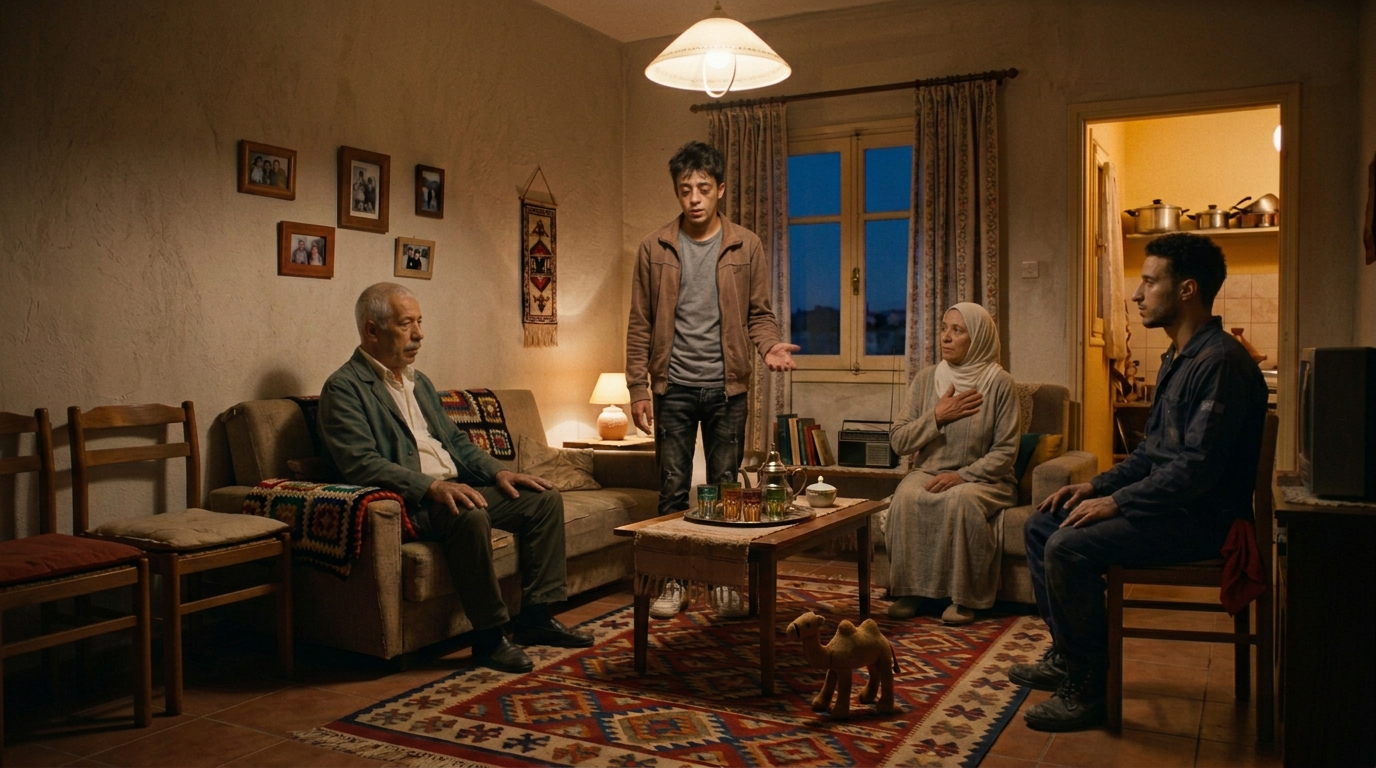
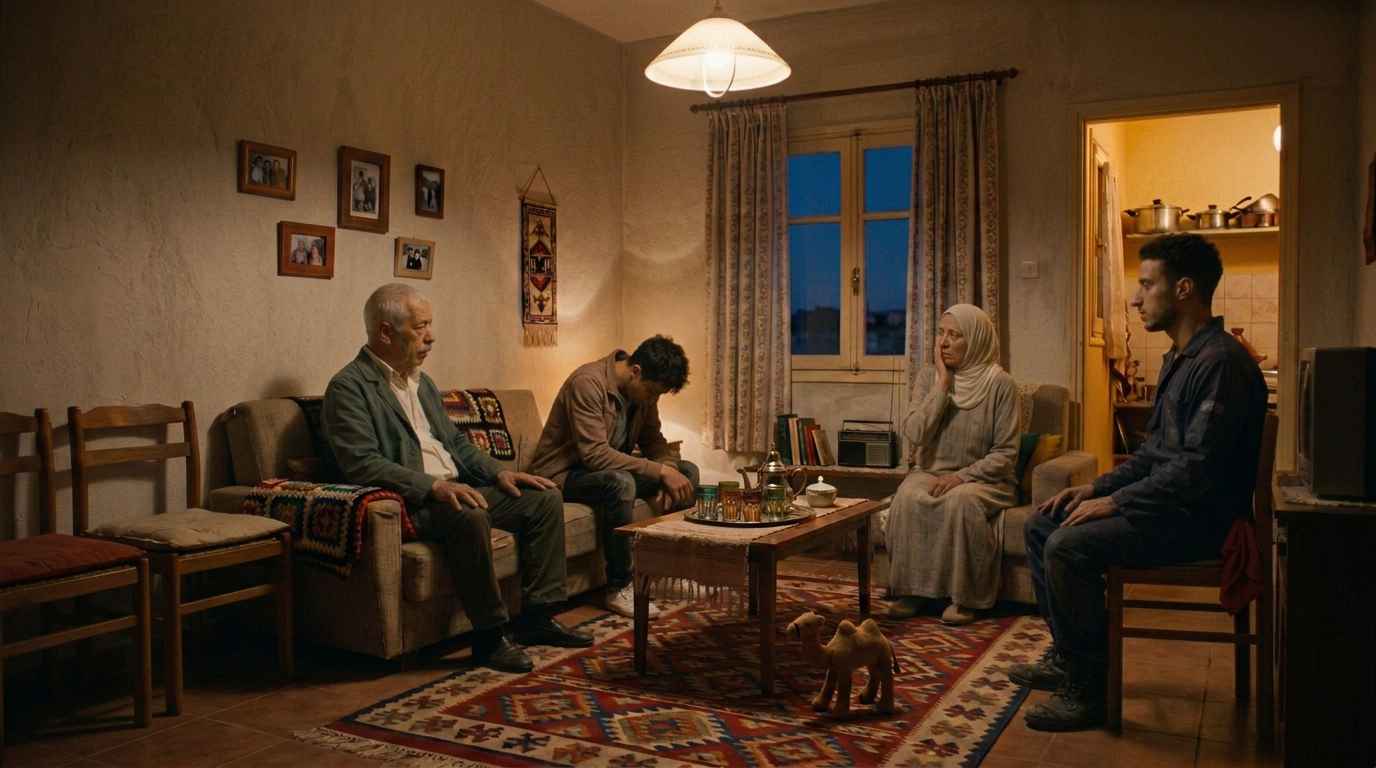
SC18 V3 fix per client memo: Yassine SEATED beside Hadj (matching SC17 ending) + SC19/SC20 complete (seated continuity) + SC21_A (standing money handover) + client's new SC04-SC27 prompts integrated with continuity adjustments

diff --git a/ATHAR_AL_ZAYT_FINAL_FILM/04_FLOW_VIDEO_PROMPTS/SC18_FLOW_PROMPT.md b/ATHAR_AL_ZAYT_FINAL_FILM/04_FLOW_VIDEO_PROMPTS/SC18_FLOW_PROMPT.md
@@ -1,43 +1,59 @@
-# SCENE 18 — الظروف
-**فيلم «آثار الزيت» • 10 ثوانٍ بالضبط • 16:9 أفقي • النسخة 2 — دارجة 100% + كاميرا واقعية + خريطة التثبيت**
+# SCENE 18 — ياسين يشرح ظروفه دون تبرير السرقة
+**فيلم «آثار الزيت» | Google Flow | 10 ثوانٍ بالضبط | أفقي 16:9 | نسخة 3 — تصحيح الاستمرارية: ياسين جالس بجوار الحاج**
 
-## 🎬 لقطات المشهد — بنفس خريطة التثبيت (الكاميرا تتغير، المواضع لا)
-| # | الملف | الدور |
-|---|---|---|
-| 1 | `SC18_IMAGE_A_WIDE.png` | **إطار البداية** — واسعة بنفس مواضع SC16/17: ياسين يشرح بيده المفتوحة، الحاج يستمع بجدية، الأم يدها على قلبها |
-| 2 | `SC18_IMAGE_B_ACTION.png` | الحدث: ياسين يشرح الظروف بألم — بلا تبرير |
-| 3 | `SC18_IMAGE_C_REACTION.png` | التعليق: كلوز الحاج جالساً يستمع بوقار — تمهيداً لكلمته في SC20 |
+## ملخص المشهد (محدث حسب مذكرة العميل)
+نفس غرفة الجلوس والمواضع والإضاءة. **ياسين الآن جالس على الكنبة بجوار الحاج (على يساره) — متطابق مع نهاية SC17**، منكّس الرأس بانكسار. الحاج مائل قليلاً نحوه يستمع بوقار أبوي. الأم في طرفها الأيمن وبيدها على خدها. أمين على الكرسي إلى اليمين. باب المطبخ فارغ تماماً.
 
----
+## تقسيم الحركة والحوار (10 ثوانٍ)
+- 0–3 ث: لقطة واسعة ثابتة؛ ياسين جالس بجوار الحاج يرفع نظره قليلاً ويشرح بيد مفتوحة، والآخرون يستمعون.
+- 3–8 ث: لقطة متوسطة هادئة بمستوى الجلوس فوق كتف الحاج؛ ياسين ينظر إلى الحاج بعينين دامعتين ويقول: «دوّرت على خدمة وما لقيتش… بابا مات، وكنت حاب نعاون أمّي وختي الصغيرة.»
+- 8–10 ث: قطع ثابت إلى كلوز وجه الحاج — عيناه ناظرتان نازلاً نحو ياسين الجالس بجانبه؛ صوت ياسين خارج الكادر يقول: «بصح عارف بلي غلطت.»
 
-## 📋 GOOGLE FLOW VIDEO PROMPT — COPY READY (V2)
+## GOOGLE FLOW VIDEO PROMPT — COPY READY (V3)
 
+```text
+Create a photorealistic live-action scene from the approved reference images for the Algerian short film "Athar Al-Zayt". Duration exactly 10 seconds. Horizontal landscape 16:9 only, cinematic widescreen composition.
+
+CONTINUITY IS MANDATORY:
+Use the attached approved reference images for the exact identity of every character and location. Do not redesign faces. Hadj is about 60, wearing the same dark-green casual jacket over a white shirt. Amine is a young mechanic wearing the same dark navy-blue coveralls, with the red cloth visible from his rear pocket. Yassine is a 19-year-old Algerian young man, not a child; he wears his faded brown jacket over a gray T-shirt and dark trousers. His mother wears the same modest beige-gray home dress and light headscarf.
+
+LOCATION / PROPS:
+نفس غرفة الجلوس والمواضع والإضاءة مع تصحيح الاستمرارية: ياسين جالس على الكنبة بجوار الحاج (على يساره) — لا يقف في هذا المشهد أبداً — منكّس الرأس بانكسار؛ الحاج جالس على يسار الكنبة مائلًا قليلًا نحوه يستمع بوقار أبوي؛ الأم في طرف الكنبة الأيمن وبيدها على خدها؛ أمين على الكرسي إلى اليمين. باب المطبخ في الخلف يسارًا فارغ تمامًا. Keep the established room geometry, furniture, props, light direction exactly consistent with the reference images.
+
+ACTION AND TIMING:
+- 0–3 ث: لقطة واسعة ثابتة؛ ياسين جالس بجوار الحاج يرفع نظره قليلًا ويشرح بيد مفتوحة، والآخرون يستمعون.
+- 3–8 ث: لقطة متوسطة هادئة بمستوى الجلوس فوق كتف الحاج؛ ياسين ينظر إلى الحاج بعينين دامعتين ويقول: «دوّرت على خدمة وما لقيتش… بابا مات، وكنت حاب نعاون أمّي وختي الصغيرة.»
+- 8–10 ث: قطع ثابت إلى كلوز وجه الحاج وهو يستمع، عيناه ناظرتان نازلاً نحو ياسين الجالس بجانبه؛ صوت ياسين خارج الكادر يقول: «بصح عارف بلي غلطت.»
+
+DIALOGUE — natural Algerian Darja only, spoken by native Algerian voices, never Modern Standard Arabic:
+ياسين: «دوّرت على خدمة وما لقيتش… بابا مات، وكنت حاب نعاون أمّي وختي الصغيرة. بصح عارف بلي غلطت.»
+Only the named speaker speaks during their line. Lip-sync only the visible speaking character. For off-screen dialogue, visible characters must keep their lips still. Keep speech short enough to fit naturally inside the indicated timing; do not overlap lines or invent extra dialogue.
+
+CAMERA:
+Use only the simple camera movement explicitly described in the timed beats. Prefer locked-off shots or one slow motivated move. No orbiting, whip pans, fast zooms, speed ramps, sudden reframing or impossible camera movement. If the beats call for a hard cut, make one clean hard cut only. Keep the geography understandable.
+
+SOUND:
+Use realistic location ambience and the specific small sound effects implied by the action. Keep dialogue clear and in front of the ambience. No loud music, no cartoon effects, no added narration, no extra dialogue. Avoid music during emotional confession scenes.
+
+ENDING FRAME / MATCH CUT:
+آخر إطار: الحاج ينظر إلى ياسين الجالس بجانبه بتفكير، لا غضب ولا ابتسامة مبكرة؛ SC19 يبدأ برد فعل الأم.
+End on a stable, readable frame that can be edited directly into the next numbered clip. Do not fade out.
+
+FORMAT: Horizontal landscape 16:9 only. Never vertical 9:16, never portrait, never square. Keep faces, hands and important props inside the frame.
 ```
-Photorealistic live-action Algerian short film. 10 seconds exactly — Horizontal landscape 16:9. Real-cinema discipline: static wide, one gentle move to medium, then a locked-off close-up — the camera angle changes but positions never change. All dialogue in natural Algerian Darja — never Modern Standard Arabic.
 
-Animate the scene from the attached images, keeping the characters, the living room and the FIXED POSITIONS EXACTLY as shown: the thin 19-year-old young man (faded brown zip-up jacket over gray t-shirt) STANDS at his fixed spot in the center just behind the low tea table, facing the sofa; the older man around 60 (dark-green casual jacket over white shirt) is SEATED on the LEFT side of the sofa; the mother (beige-gray home dress, white-beige headscarf) is SEATED on the RIGHT end of the sofa; the young mechanic (navy-blue coverall) is SEATED on his chair to the right. Living room layout FIXED: sofa backdrop, low table with tea set middle, kitchen doorway background LEFT. Warm evening lamp light.
+## NEGATIVE PROMPT — COPY READY
 
-0–3s — Locked-off static wide: same fixed positions; the young man explains himself with painful honesty, one hand half-open in a helpless gesture, dried tear tracks on his face; the older man listens gravely, hands folded on his knee; the mother listens with heartbreak, one hand over her heart.
-
-3–8s — One gentle move to a medium shot of the young man: he explains, lip-synced, ashamed but no longer hiding, Algerian Darja: «دوّرت على خدمة… ما لقيتش. باباي مات وما بقاتلنا حتى شي. شفت أمّي وختي الصغيرة… ما لقيتش طريق آخر.»
-
-8–10s — Locked-off static close-up of the seated older man: his grave patient face listening, eyes thoughtful; the young man's voice continues off-screen (no lip movement on screen), Algerian Darja: «غلطت يا الحاج.» Final frame: the older man's eyes lower thoughtfully.
-
-CAMERA: static wide → one gentle move to medium → static close-up on the older man. Positions never change.
-SOUND: quiet room, the young man's slow ashamed voice, the faint wall clock. No music.
-FORMAT: Horizontal landscape 16:9 only, cinematic widescreen framing. Never vertical 9:16, never portrait, never square. Do not crop the image into a vertical frame.
+```text
+No vertical 9:16, no portrait, no square. Yassine stays SEATED on the sofa beside Hadj for the entire scene — he does NOT stand up. No character identity drift, no face changes, no age changes, no clothing changes. Yassine is 19, not a child. No extra people, no duplicate bodies, no blurred figures in the kitchen doorway, no extra fingers, no fused hands, no distorted faces, no changing room layout. No subtitles, no captions, no watermark, no logos, no random readable text. No Modern Standard Arabic, no Egyptian or Gulf accent. No overlapping dialogue, no lip movement by a silent character. No exaggerated crying, no slapstick, no violence. Do not make the customer the thief. Do not end on a cliffhanger.
 ```
 
----
+## 🔗 الربط بالمشهد التالي
+آخر إطار: الحاج ينظر إلى ياسين الجالس بجانبه بتفكير؛ SC19 يبدأ برد فعل الأم (نفس المواضع — ياسين لا يزال جالساً).
 
-## 🚫 NEGATIVE PROMPT
-
-```
-No vertical 9:16, no portrait, no square. No fast camera moves. Do NOT move anyone from their fixed position: the young man stays standing in the center, the older man stays seated on the LEFT of the sofa, the mother stays seated on the RIGHT end, the mechanic stays on his chair — no seat swapping, no wandering, no teleporting. No excuses justifying the theft — he admits the mistake. No extra people. No distorted hands, no extra fingers. No Modern Standard Arabic, no foreign accent, no subtitles, no watermark, no logos, no readable text anywhere.
-```
-
-## 🔗 آخر إطار — للربط بالمشهد التالي (SC19)
-عينا الحاج تنخفضان متأملتين → SC19: الأم تمسح دموعها (نفس الغرفة والمواضع).
-
-## ✅ فحص سريع
-16:9 ✓ • **نفس مواضع SC16/17 حرفياً** ✓ • شرح الظروف بلا تبرير ✓ • كلوز الحاج يمهد لـ SC20 ✓ • دارجة: «دوّرت على خدمة… ما لقيتش. باباي مات وما بقاتلنا حتى شي. شفت أمّي وختي الصغيرة… ما لقيتش طريق آخر. غلطت يا الحاج» ✓ • 10 ثوانٍ ✓
+## فحص سريع قبل اعتماد الفيديو
+- [ ] المدة 10 ثوانٍ بالضبط.
+- [ ] ياسين جالس بجوار الحاج في كل اللقطات (لا يقف).
+- [ ] عينا الحاج في كلوز C ناظرتان نازلاً نحو ياسين الجالس.
+- [ ] باب المطبخ فارغ (لا أشخاص زائفين).
+- [ ] الحوار دارجة جزائرية ومزامنة الشفاه صحيحة.

diff --git a/ATHAR_AL_ZAYT_FINAL_FILM/04_FLOW_VIDEO_PROMPTS/SC21_FLOW_PROMPT.md b/ATHAR_AL_ZAYT_FINAL_FILM/04_FLOW_VIDEO_PROMPTS/SC21_FLOW_PROMPT.md
@@ -1,0 +1,60 @@
+# SCENE 21 — إرجاع المال
+**فيلم «آثار الزيت» | Google Flow | 10 ثوانٍ بالضبط | أفقي 16:9 | نسخة مراجعة الاستمرارية**
+
+## ملخص المشهد
+نفس غرفة الجلوس. ياسين ينهض بهدوء من الكنبة ويقف في الوسط لتسليم المال (حركة مبررة ظاهرة في أول المشهد)، المال كان في الجيب الداخلي الأيسر لسترته البنية. الحاج جالس يسار الكنبة.
+
+## تقسيم الحركة والحوار (10 ثوانٍ)
+- 0–3 ث: ياسين ينهض بهدوء من الكنبة بجوار الحاج، يقف في وسط الغرفة خلف الطاولة، ثم يُدخل يده اليمنى ببطء إلى الجيب الداخلي الأيسر ويخرج رزمة المال.
+- 3–7 ث: يمد المال بكلتا يديه إلى الحاج؛ الحاج يمد يديه ويستلمه بوضوح. يجب أن تكون عملية التسليم مرئية كاملة.
+- 7–10 ث: الحاج ينظر إلى المال ثم إلى ياسين ويقول: «مليح بلي رجّعتو واعترفت.»
+
+## GOOGLE FLOW VIDEO PROMPT — COPY READY
+```text
+Create a photorealistic live-action scene from the approved reference images for the Algerian short film “Athar Al-Zayt”. Duration exactly 10 seconds. Horizontal landscape 16:9 only, cinematic widescreen composition.
+
+CONTINUITY IS MANDATORY:
+Use the attached approved reference images for the exact identity of every character and location. Do not redesign faces. Hadj is about 60, wearing the same dark-green casual jacket over a white shirt. Amine is a young mechanic wearing the same dark navy-blue coveralls, with the red cloth visible from his rear pocket. Yassine is a 19-year-old Algerian young man, not a child; his pre-job outfit is a faded brown jacket over a gray T-shirt and dark trousers. His mother wears the same modest beige-gray home dress and light headscarf. The little sister is about two years old. For the later workshop scenes, Yassine wears the approved simple dark navy work outfit. Keep all approved face references exact.
+
+LOCATION / PROPS:
+نفس غرفة الجلوس. ياسين ينهض بهدوء من الكنبة ويقف في الوسط لتسليم المال (حركة مبررة ظاهرة في أول المشهد)، المال كان في الجيب الداخلي الأيسر لسترته البنية. الحاج جالس يسار الكنبة.
+Keep the established room geometry, door positions, furniture, props, light direction and screen geography exactly consistent with the reference images. The money box is wooden with a top lid and handle. In the workshop office it stays on the LEFT side of the wooden desk; the CCTV monitor stays mounted on the wall to the RIGHT of the desk. Do not move or duplicate these objects.
+
+ACTION AND TIMING:
+- 0–3 ث: ياسين ينهض بهدوء من الكنبة بجوار الحاج، يقف في وسط الغرفة خلف الطاولة، ثم يُدخل يده اليمنى ببطء إلى الجيب الداخلي الأيسر ويخرج رزمة المال.
+- 3–7 ث: يمد المال بكلتا يديه إلى الحاج؛ الحاج يمد يديه ويستلمه بوضوح. يجب أن تكون عملية التسليم مرئية كاملة.
+- 7–10 ث: الحاج ينظر إلى المال ثم إلى ياسين ويقول: «مليح بلي رجّعتو واعترفت.»
+
+DIALOGUE — natural Algerian Darja only, spoken by native Algerian voices, never Modern Standard Arabic:
+الحاج: «مليح بلي رجّعتو واعترفت.»
+Only the named speaker speaks during their line. Lip-sync only the visible speaking character. For off-screen dialogue, visible characters must keep their lips still. Keep speech short enough to fit naturally inside the indicated timing; do not overlap lines or invent extra dialogue.
+
+CAMERA:
+Use only the simple camera movement explicitly described in the timed beats. Prefer locked-off shots or one slow motivated move. No orbiting, whip pans, fast zooms, speed ramps, sudden reframing or impossible camera movement. If the beats call for a hard cut, make one clean hard cut only. Keep the geography understandable.
+
+SOUND:
+Use realistic location ambience and the specific small sound effects implied by the action. Keep dialogue clear and in front of the ambience. No loud music, no cartoon effects, no added narration, no extra dialogue. Avoid music during emotional confession scenes.
+
+ENDING FRAME / MATCH CUT:
+آخر إطار: المال في يد الحاج، وياسين واقف أمامه ويداه فارغتان؛ SC22 يبدأ بتأكيد تحمل المسؤولية.
+End on a stable, readable frame that can be edited directly into the next numbered clip. Do not fade out unless this is the final scene.
+
+FORMAT: Horizontal landscape 16:9 only. Never vertical 9:16, never portrait, never square. Keep faces, hands and important props inside the frame.
+```
+
+## NEGATIVE PROMPT — COPY READY
+```text
+No vertical 9:16, no portrait, no square, no reframing to mobile format. No character identity drift, no face changes, no age changes, no clothing changes except the explicitly approved next-day work outfit for Yassine in scenes 25–27. Yassine is 19, not a child. No extra people, no duplicate bodies, no extra fingers, no fused hands, no distorted faces, no floating objects, no prop teleportation, no changing room layout, no moving the wooden desk, money box or wall-mounted monitor. No subtitles, no captions, no watermark, no logos, no random readable text. No Modern Standard Arabic, no Egyptian or Gulf accent. No overlapping dialogue, no lip movement by a silent character. No exaggerated crying, no slapstick, no violence, no threatening gestures. Do not make the customer the thief. Do not end on a cliffhanger.
+```
+
+## 🔗 الربط بالمشهد التالي
+آخر إطار: المال في يد الحاج، وياسين واقف أمامه ويداه فارغتان؛ SC22 يبدأ بتأكيد تحمل المسؤولية.
+
+## فحص سريع قبل اعتماد الفيديو
+- [ ] المدة 10 ثوانٍ بالضبط.
+- [ ] الإطار أفقي 16:9.
+- [ ] الوجوه والملابس مطابقة للمراجع.
+- [ ] المكان والأغراض في المواضع الصحيحة.
+- [ ] الحوار دارجة جزائرية ومزامنة الشفاه صحيحة.
+- [ ] الحركة بسيطة ومنطقية.
+- [ ] آخر إطار متوافق مع بداية المشهد التالي.

diff --git a/ATHAR_AL_ZAYT_FINAL_FILM/04_FLOW_VIDEO_PROMPTS/SC19_FLOW_PROMPT.md b/ATHAR_AL_ZAYT_FINAL_FILM/04_FLOW_VIDEO_PROMPTS/SC19_FLOW_PROMPT.md
@@ -1,0 +1,60 @@
+# SCENE 19 — رد فعل الأم
+**فيلم «آثار الزيت» | Google Flow | 10 ثوانٍ بالضبط | أفقي 16:9 | نسخة مراجعة الاستمرارية**
+
+## ملخص المشهد
+نفس غرفة الجلوس وبنفس خريطة المواضع. الأم جالسة في الطرف الأيمن من الكنبة، ياسين جالس على الكنبة بجوار الحاج (استمرارية من SC17/SC18 — لا يقف)، الحاج يسار الكنبة، أمين على كرسي إلى اليمين.
+
+## تقسيم الحركة والحوار (10 ثوانٍ)
+- 0–3 ث: لقطة ثابتة متوسطة على الأم؛ عيناها تدمعان لكنها لا تصرخ ولا تنهض.
+- 3–7 ث: الأم تنظر إلى ابنها وتقول بصوت متأثر: «يا وليدي… الفقر صعيب، بصح السرقة ماشي حل.»
+- 7–10 ث: ياسين يخفض رأسه أكثر، ويقول بهدوء: «عارف يا أمّي.»
+
+## GOOGLE FLOW VIDEO PROMPT — COPY READY
+```text
+Create a photorealistic live-action scene from the approved reference images for the Algerian short film “Athar Al-Zayt”. Duration exactly 10 seconds. Horizontal landscape 16:9 only, cinematic widescreen composition.
+
+CONTINUITY IS MANDATORY:
+Use the attached approved reference images for the exact identity of every character and location. Do not redesign faces. Hadj is about 60, wearing the same dark-green casual jacket over a white shirt. Amine is a young mechanic wearing the same dark navy-blue coveralls, with the red cloth visible from his rear pocket. Yassine is a 19-year-old Algerian young man, not a child; his pre-job outfit is a faded brown jacket over a gray T-shirt and dark trousers. His mother wears the same modest beige-gray home dress and light headscarf. The little sister is about two years old. For the later workshop scenes, Yassine wears the approved simple dark navy work outfit. Keep all approved face references exact.
+
+LOCATION / PROPS:
+نفس غرفة الجلوس وبنفس خريطة المواضع. الأم جالسة في الطرف الأيمن من الكنبة، ياسين جالس على الكنبة بجوار الحاج (استمرارية من SC17/SC18 — لا يقف)، الحاج يسار الكنبة، أمين على كرسي إلى اليمين.
+Keep the established room geometry, door positions, furniture, props, light direction and screen geography exactly consistent with the reference images. The money box is wooden with a top lid and handle. In the workshop office it stays on the LEFT side of the wooden desk; the CCTV monitor stays mounted on the wall to the RIGHT of the desk. Do not move or duplicate these objects.
+
+ACTION AND TIMING:
+- 0–3 ث: لقطة ثابتة متوسطة على الأم؛ عيناها تدمعان لكنها لا تصرخ ولا تنهض.
+- 3–7 ث: الأم تنظر إلى ابنها وتقول بصوت متأثر: «يا وليدي… الفقر صعيب، بصح السرقة ماشي حل.»
+- 7–10 ث: ياسين يخفض رأسه أكثر، ويقول بهدوء: «عارف يا أمّي.»
+
+DIALOGUE — natural Algerian Darja only, spoken by native Algerian voices, never Modern Standard Arabic:
+الأم: «يا وليدي… الفقر صعيب، بصح السرقة ماشي حل.» ياسين: «عارف يا أمّي.»
+Only the named speaker speaks during their line. Lip-sync only the visible speaking character. For off-screen dialogue, visible characters must keep their lips still. Keep speech short enough to fit naturally inside the indicated timing; do not overlap lines or invent extra dialogue.
+
+CAMERA:
+Use only the simple camera movement explicitly described in the timed beats. Prefer locked-off shots or one slow motivated move. No orbiting, whip pans, fast zooms, speed ramps, sudden reframing or impossible camera movement. If the beats call for a hard cut, make one clean hard cut only. Keep the geography understandable.
+
+SOUND:
+Use realistic location ambience and the specific small sound effects implied by the action. Keep dialogue clear and in front of the ambience. No loud music, no cartoon effects, no added narration, no extra dialogue. Avoid music during emotional confession scenes.
+
+ENDING FRAME / MATCH CUT:
+آخر إطار: الأم تمسح دمعة واحدة، وياسين مطأطئ الرأس؛ SC20 يبدأ بكلام الحاج.
+End on a stable, readable frame that can be edited directly into the next numbered clip. Do not fade out unless this is the final scene.
+
+FORMAT: Horizontal landscape 16:9 only. Never vertical 9:16, never portrait, never square. Keep faces, hands and important props inside the frame.
+```
+
+## NEGATIVE PROMPT — COPY READY
+```text
+No vertical 9:16, no portrait, no square, no reframing to mobile format. No character identity drift, no face changes, no age changes, no clothing changes except the explicitly approved next-day work outfit for Yassine in scenes 25–27. Yassine is 19, not a child. No extra people, no duplicate bodies, no extra fingers, no fused hands, no distorted faces, no floating objects, no prop teleportation, no changing room layout, no moving the wooden desk, money box or wall-mounted monitor. No subtitles, no captions, no watermark, no logos, no random readable text. No Modern Standard Arabic, no Egyptian or Gulf accent. No overlapping dialogue, no lip movement by a silent character. No exaggerated crying, no slapstick, no violence, no threatening gestures. Do not make the customer the thief. Do not end on a cliffhanger.
+```
+
+## 🔗 الربط بالمشهد التالي
+آخر إطار: الأم تمسح دمعة واحدة، وياسين مطأطئ الرأس؛ SC20 يبدأ بكلام الحاج.
+
+## فحص سريع قبل اعتماد الفيديو
+- [ ] المدة 10 ثوانٍ بالضبط.
+- [ ] الإطار أفقي 16:9.
+- [ ] الوجوه والملابس مطابقة للمراجع.
+- [ ] المكان والأغراض في المواضع الصحيحة.
+- [ ] الحوار دارجة جزائرية ومزامنة الشفاه صحيحة.
+- [ ] الحركة بسيطة ومنطقية.
+- [ ] آخر إطار متوافق مع بداية المشهد التالي.

diff --git a/ATHAR_AL_ZAYT_FINAL_FILM/04_FLOW_VIDEO_PROMPTS/SC20_FLOW_PROMPT.md b/ATHAR_AL_ZAYT_FINAL_FILM/04_FLOW_VIDEO_PROMPTS/SC20_FLOW_PROMPT.md
@@ -1,0 +1,60 @@
+# SCENE 20 — الحاج يوضح الخطأ ويمنح فرصة للإصلاح
+**فيلم «آثار الزيت» | Google Flow | 10 ثوانٍ بالضبط | أفقي 16:9 | نسخة مراجعة الاستمرارية**
+
+## ملخص المشهد
+نفس غرفة الجلوس، نفس المواضع. الحاج جالس يسار الكنبة، يتحدث دون تهديد؛ ياسين جالس على الكنبة بجواره منصتًا (استمرارية من SC18/SC19 — لا يقف).
+
+## تقسيم الحركة والحوار (10 ثوانٍ)
+- 0–3 ث: لقطة متوسطة ثابتة على الحاج؛ يرفع كفه قليلًا في إشارة هادئة.
+- 3–8 ث: الحاج يقول بوقار: «ظروفك صعيبة يا وليدي، بصح المال ما يتاخذش هكّا. الرزق لازم يكون بالحلال.»
+- 8–10 ث: ياسين يومئ برأسه مرة واحدة، صامتًا ومنصتًا.
+
+## GOOGLE FLOW VIDEO PROMPT — COPY READY
+```text
+Create a photorealistic live-action scene from the approved reference images for the Algerian short film “Athar Al-Zayt”. Duration exactly 10 seconds. Horizontal landscape 16:9 only, cinematic widescreen composition.
+
+CONTINUITY IS MANDATORY:
+Use the attached approved reference images for the exact identity of every character and location. Do not redesign faces. Hadj is about 60, wearing the same dark-green casual jacket over a white shirt. Amine is a young mechanic wearing the same dark navy-blue coveralls, with the red cloth visible from his rear pocket. Yassine is a 19-year-old Algerian young man, not a child; his pre-job outfit is a faded brown jacket over a gray T-shirt and dark trousers. His mother wears the same modest beige-gray home dress and light headscarf. The little sister is about two years old. For the later workshop scenes, Yassine wears the approved simple dark navy work outfit. Keep all approved face references exact.
+
+LOCATION / PROPS:
+نفس غرفة الجلوس، نفس المواضع. الحاج جالس يسار الكنبة، يتحدث دون تهديد؛ ياسين جالس على الكنبة بجواره منصتًا (استمرارية من SC18/SC19 — لا يقف).
+Keep the established room geometry, door positions, furniture, props, light direction and screen geography exactly consistent with the reference images. The money box is wooden with a top lid and handle. In the workshop office it stays on the LEFT side of the wooden desk; the CCTV monitor stays mounted on the wall to the RIGHT of the desk. Do not move or duplicate these objects.
+
+ACTION AND TIMING:
+- 0–3 ث: لقطة متوسطة ثابتة على الحاج؛ يرفع كفه قليلًا في إشارة هادئة.
+- 3–8 ث: الحاج يقول بوقار: «ظروفك صعيبة يا وليدي، بصح المال ما يتاخذش هكّا. الرزق لازم يكون بالحلال.»
+- 8–10 ث: ياسين يومئ برأسه مرة واحدة، صامتًا ومنصتًا.
+
+DIALOGUE — natural Algerian Darja only, spoken by native Algerian voices, never Modern Standard Arabic:
+الحاج: «ظروفك صعيبة يا وليدي، بصح المال ما يتاخذش هكّا. الرزق لازم يكون بالحلال.»
+Only the named speaker speaks during their line. Lip-sync only the visible speaking character. For off-screen dialogue, visible characters must keep their lips still. Keep speech short enough to fit naturally inside the indicated timing; do not overlap lines or invent extra dialogue.
+
+CAMERA:
+Use only the simple camera movement explicitly described in the timed beats. Prefer locked-off shots or one slow motivated move. No orbiting, whip pans, fast zooms, speed ramps, sudden reframing or impossible camera movement. If the beats call for a hard cut, make one clean hard cut only. Keep the geography understandable.
+
+SOUND:
+Use realistic location ambience and the specific small sound effects implied by the action. Keep dialogue clear and in front of the ambience. No loud music, no cartoon effects, no added narration, no extra dialogue. Avoid music during emotional confession scenes.
+
+ENDING FRAME / MATCH CUT:
+آخر إطار: الحاج يخفض يده، وياسين يظل في مكانه؛ SC21 يبدأ بإخراج المال وإرجاعه.
+End on a stable, readable frame that can be edited directly into the next numbered clip. Do not fade out unless this is the final scene.
+
+FORMAT: Horizontal landscape 16:9 only. Never vertical 9:16, never portrait, never square. Keep faces, hands and important props inside the frame.
+```
+
+## NEGATIVE PROMPT — COPY READY
+```text
+No vertical 9:16, no portrait, no square, no reframing to mobile format. No character identity drift, no face changes, no age changes, no clothing changes except the explicitly approved next-day work outfit for Yassine in scenes 25–27. Yassine is 19, not a child. No extra people, no duplicate bodies, no extra fingers, no fused hands, no distorted faces, no floating objects, no prop teleportation, no changing room layout, no moving the wooden desk, money box or wall-mounted monitor. No subtitles, no captions, no watermark, no logos, no random readable text. No Modern Standard Arabic, no Egyptian or Gulf accent. No overlapping dialogue, no lip movement by a silent character. No exaggerated crying, no slapstick, no violence, no threatening gestures. Do not make the customer the thief. Do not end on a cliffhanger.
+```
+
+## 🔗 الربط بالمشهد التالي
+آخر إطار: الحاج يخفض يده، وياسين يظل في مكانه؛ SC21 يبدأ بإخراج المال وإرجاعه.
+
+## فحص سريع قبل اعتماد الفيديو
+- [ ] المدة 10 ثوانٍ بالضبط.
+- [ ] الإطار أفقي 16:9.
+- [ ] الوجوه والملابس مطابقة للمراجع.
+- [ ] المكان والأغراض في المواضع الصحيحة.
+- [ ] الحوار دارجة جزائرية ومزامنة الشفاه صحيحة.
+- [ ] الحركة بسيطة ومنطقية.
+- [ ] آخر إطار متوافق مع بداية المشهد التالي.

diff --git a/ATHAR_AL_ZAYT_FINAL_FILM/02_LOCATION_REFERENCES/HOUSE_LIVING.md b/ATHAR_AL_ZAYT_FINAL_FILM/02_LOCATION_REFERENCES/HOUSE_LIVING.md
@@ -38,3 +38,10 @@ FORMAT: Horizontal landscape 16:9 only, cinematic widescreen framing. Never vert
 
 ## ⭐ مرجع الصالون بالتثبيت — `HOUSE_LIVING_BLOCKING.png` (اختياري إضافي)
 صورة مرجعية واحدة تجمع **الغرفة + الشخصيات الأربع في مواضعها المقفلة** بوضعية محايدة هادئة (مرجع للعميل يرفعه في Flow مع كل مشاهد غرفة الجلوس SC16-SC27): الحاج جالس يسار الكنبة • الأم يمين الكنبة • أمين على الكرسي يمين • ياسين واقف وسط خلف طاولة الشاي. مبنية على اللقطة الأم SC16_A — نفس الأثاث والإضاءة والمواضع.
+
+## 🔁 تحديث 18 أكتوبر — مذكرة العميل (استمرارية الجلوس)
+- **من SC18:** ياسين **جالس على الكنبة بجوار الحاج** (قعد في نهاية SC17) — يبقى جالساً في SC18-SC20.
+- **SC21:** ياسين **ينهض** (حركة مبررة ظاهرة) ويقف وسط الغرفة لتسليم المال بيديه الاثنتين للحاج الجالس.
+- **SC22-SC24:** ياسين واقف في الوسط (بعد التسليم)، الباقون في أماكنهم.
+- **SC25-SC27 (نهاية جديدة ببرومبتات العميل):** ورشة السيارات صباح اليوم التالي — ياسين ببدلة عمل كحلية بسيطة (مرجع جديد مطلوب)، الحاج بسترة خضراء، أمين ببدلته والقماش الأحمر.
+- باب المطبخ فارغ دائماً — لا أشخاص زائفين فيه.

diff --git a/ATHAR_AL_ZAYT_FINAL_FILM/05_CONTINUITY_CHECKS/CONTINUITY_TABLE.md b/ATHAR_AL_ZAYT_FINAL_FILM/05_CONTINUITY_CHECKS/CONTINUITY_TABLE.md
@@ -34,10 +34,10 @@
 | SC15 | 🔍 | 🔍 | 🔍 | — | 🔍 |  |
 | SC16 | 🔍 | 🔍 | 🔍 | — | 🔍 |  |
 | SC17 | 🔍 | 🔍 | 🔍 | — | 🔍 | الاعتراف — بكاء مضبوط |
-| SC18 | 🔍 | 🔍 | 🔍 | — | 🔍 | أُعيدت بخريطة التثبيت |
+| SC18 | 🔍 | 🔍 | 🔍 | — | 🔍 | أُعيدت V3: ياسين جالس بجوار الحاج (مذكرة العميل) |
 | SC19 | ⏳ | ⏳ | ⏳ | — | ⏳ | الأم فقط تتحدث |
-| SC20 | ⏳ | ⏳ | ⏳ | — | ⏳ |  |
-| SC21 | ⏳ | ⏳ | ⏳ | ⏳ | ⏳ | D: تسليم المال واضح |
+| SC20 | 🔍 | 🔍 | 🔍 | — | 🔍 | ياسين جالس (استمرارية) |
+| SC21 | 🔍 | ⏳ | ⏳ | ⏳ | 🔍 | A فقط — ياسين واقف للتسليم |
 | SC22 | ⏳ | ⏳ | ⏳ | — | ⏳ |  |
 | SC23 | ⏳ | ⏳ | ⏳ | — | ⏳ |  |
 | SC24 | ⏳ | ⏳ | ⏳ | — | ⏳ |  |
